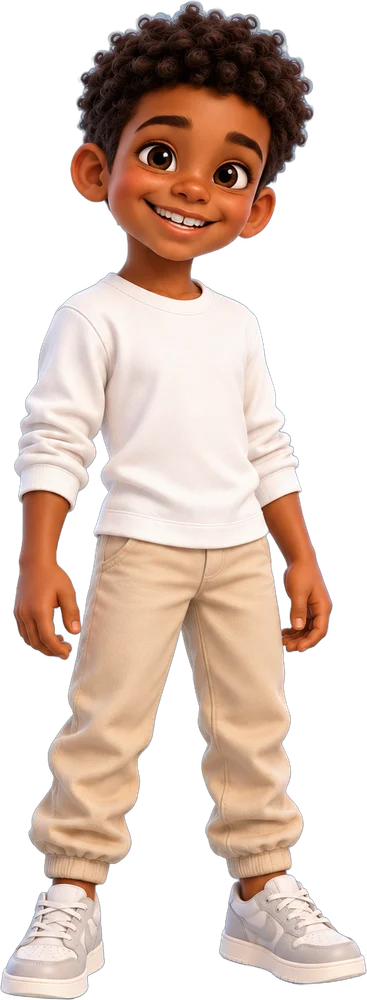
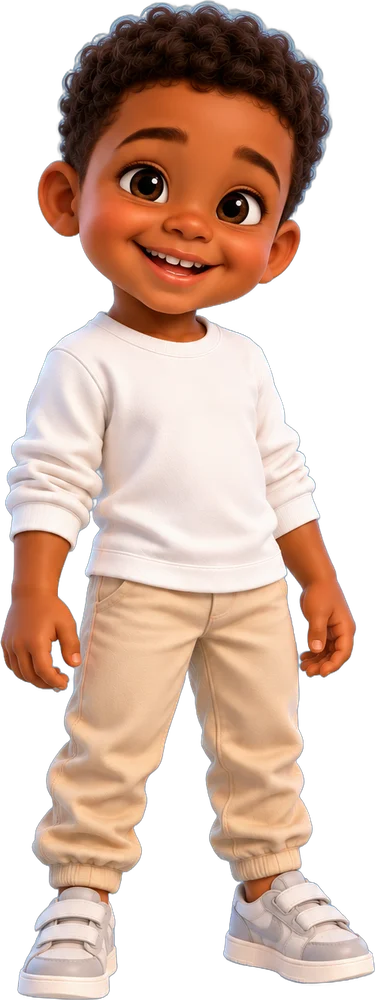
Малюки: новий Кучерявий малюк (молодший)
Claude-Session: https://claude.ai/code/session_01A5hqB3Rt9t8JfPshvx2g5S

diff --git a/hero.html b/hero.html
@@ -26,7 +26,7 @@
 <script src="sk-resume.js?v=1"></script>
 <script>SKResume.go();   /* відкрили застосунок — одразу туди, де Герой зупинився (якщо не минуло 2 годин) */</script>
 <script src="sk-arena-rules.js?v=38"></script>
-<script src="sk-avatar.js?v=16"></script>
+<script src="sk-avatar.js?v=17"></script>
 <script src="sk-curriculum.js?v=9"></script>
 <script src="sk-covers.js?v=20"></script>
 <script src="sk-insights.js?v=4"></script>

diff --git a/server/app/src/avatar.js b/server/app/src/avatar.js
@@ -72,7 +72,7 @@ const FACE_BOX = {
   'kid-dark-girl':    { left: 0.096, top: 0, size: 0.719 },
   'kid-dark-boy':     { left: 0.165, top: 0, size: 0.720 },
   // малюки (дошкілля)
-  'tot-dark-boy':     { left: 0.106, top: 0, size: 0.779 },
+  'tot-dark-boy':     { left: 0.093, top: 0, size: 0.779 },
   'tot-dark-girl':    { left: 0.108, top: 0, size: 0.779 },
   'tot-fair-boy':     { left: 0.117, top: 0, size: 0.780 },
   'tot-fair-girl':    { left: 0.141, top: 0, size: 0.779 },

diff --git a/slovnyk-en.html b/slovnyk-en.html
@@ -356,7 +356,7 @@
 <!-- «Тести» ведуть сюди з ?skdone=t:std-words-en — без sk-finish.js цей
      параметр нічого не робив, і картка WORDS ніколи не ставала пройденою. -->
 <script src="sk-finish.js?v=7"></script>
-<script src="sk-avatar.js?v=16"></script>
+<script src="sk-avatar.js?v=17"></script>
 <script type="module" src="firebase-config.js"></script>
 <script>
 "use strict";

diff --git a/doshkilya/chytaemo-po-zvukakh.html b/doshkilya/chytaemo-po-zvukakh.html
@@ -1241,7 +1241,7 @@ refreshStart();
 </script>
 
 <!-- Firebase лише для кнопки «Вийти» у спільному футері + нагороди -->
-<script src="../sk-avatar.js?v=16"></script>
+<script src="../sk-avatar.js?v=17"></script>
 <script type="module" src="../firebase-config.js"></script>
 <script src="../sk-items.js?v=28"></script>
 <script src="../sk-curriculum.js?v=9"></script>

diff --git a/doshkilya/vchymo-litery.html b/doshkilya/vchymo-litery.html
@@ -1474,7 +1474,7 @@ refreshStart();
 </script>
 
 <!-- Firebase лише для кнопки «Вийти» у спільному футері -->
-<script src="../sk-avatar.js?v=16"></script>
+<script src="../sk-avatar.js?v=17"></script>
 <script type="module" src="../firebase-config.js"></script>
 <script src="../sk-items.js?v=28"></script>
 <script src="../sk-curriculum.js?v=9"></script>

diff --git a/doshkilya/vchymo-tsyfry.html b/doshkilya/vchymo-tsyfry.html
@@ -1351,7 +1351,7 @@ refreshStart();
 </script>
 
 <!-- Firebase лише для кнопки «Вийти» у спільному футері -->
-<script src="../sk-avatar.js?v=16"></script>
+<script src="../sk-avatar.js?v=17"></script>
 <script type="module" src="../firebase-config.js"></script>
 <script src="../sk-items.js?v=28"></script>
 <script src="../sk-curriculum.js?v=9"></script>

diff --git a/doshkilya/vchymos-rahuvaty.html b/doshkilya/vchymos-rahuvaty.html
@@ -1366,7 +1366,7 @@ refreshStart();
 </script>
 
 <!-- Firebase лише для кнопки «Вийти» у спільному футері -->
-<script src="../sk-avatar.js?v=16"></script>
+<script src="../sk-avatar.js?v=17"></script>
 <script type="module" src="../firebase-config.js"></script>
 <script src="../sk-items.js?v=28"></script>
 <script src="../sk-curriculum.js?v=9"></script>

diff --git a/klas-1/english-grammar-generator.html b/klas-1/english-grammar-generator.html
@@ -1085,7 +1085,7 @@ textarea:focus{outline:none;border-color:#8fc0ff;background:#fff}
 </script>
 
 <script src="../sk-footer.js?v=6" data-back="tests.html" data-base="../"></script>
-<script src="../sk-avatar.js?v=16"></script>
+<script src="../sk-avatar.js?v=17"></script>
 <script type="module" src="../firebase-config.js"></script>
 
 <script src="../sk-finish.js?v=7"></script>

diff --git a/klas-1/matematyka-generator.html b/klas-1/matematyka-generator.html
@@ -1183,7 +1183,7 @@ textarea:focus{outline:none;border-color:#8fc0ff;background:#fff}
 </script>
 
 <script src="../sk-footer.js?v=6" data-back="tests.html" data-base="../"></script>
-<script src="../sk-avatar.js?v=16"></script>
+<script src="../sk-avatar.js?v=17"></script>
 <script type="module" src="../firebase-config.js"></script>
 
 <script src="../sk-finish.js?v=7"></script>

diff --git a/klas-1/spysuvannya.html b/klas-1/spysuvannya.html
@@ -968,7 +968,7 @@ textarea:focus{outline:none;border-color:#8fc0ff;background:#fff}
 </script>
 
 <script src="../sk-footer.js?v=6" data-back="tests.html" data-base="../"></script>
-<script src="../sk-avatar.js?v=16"></script>
+<script src="../sk-avatar.js?v=17"></script>
 <script type="module" src="../firebase-config.js"></script>
 
 <script src="../sk-finish.js?v=7"></script>

diff --git a/doshkilya/chytaemo-sklady.html b/doshkilya/chytaemo-sklady.html
@@ -1040,7 +1040,7 @@ refreshStart();
 </script>
 
 <!-- Firebase лише для кнопки «Вийти» у спільному футері -->
-<script src="../sk-avatar.js?v=16"></script>
+<script src="../sk-avatar.js?v=17"></script>
 <script type="module" src="../firebase-config.js"></script>
 
 <script src="../sk-items.js?v=28"></script>
